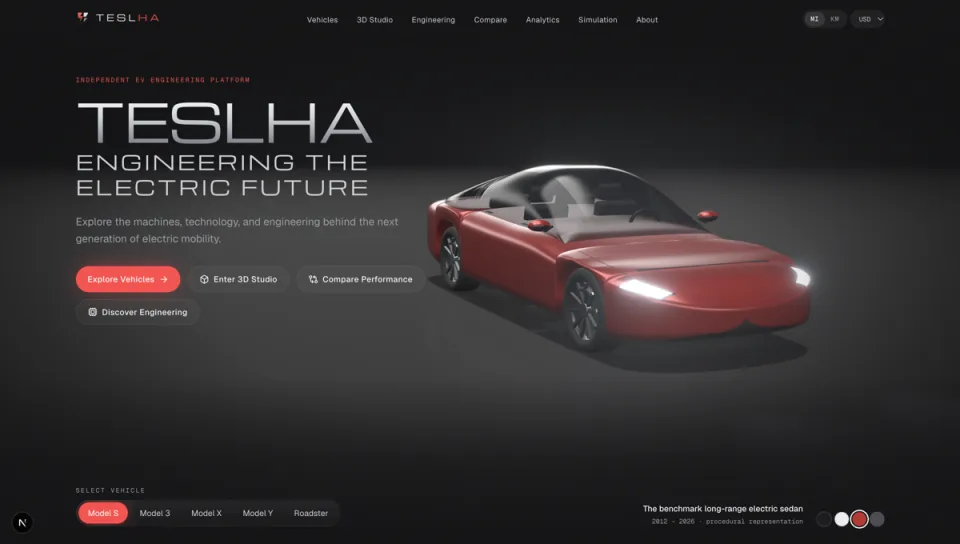
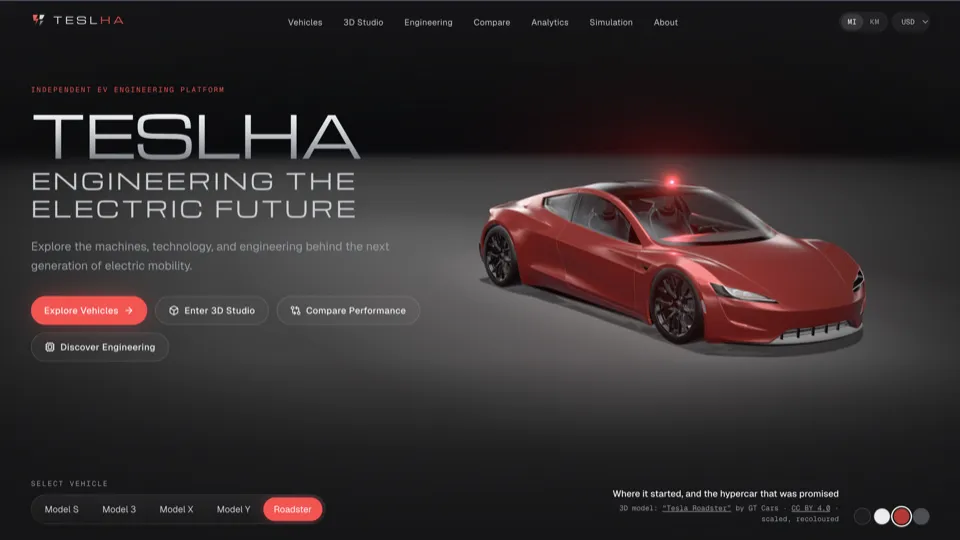
Update TeslHa project screenshot
Replace the TeslHa card image with a newer showroom screenshot featuring
the 3D Roadster (960 px WebP, 22 KB), and add alt text describing it.

diff --git a/src/constants/index.js b/src/constants/index.js
@@ -410,6 +410,8 @@ const projects = [
       { name: "TypeScript / Zod", color: "pink-text-gradient" },
     ],
     image: teslha,
+    imageAlt:
+      "TeslHa showroom home page: the headline “Engineering the electric future” beside a red 3D Roadster, with the Roadster selected in the vehicle picker.",
     source_code_link: "https://github.com/SMLG120/TeslHa",
     projectDate: "2026-11-07",
     demo_link: "https://teslha.onrender.com",
